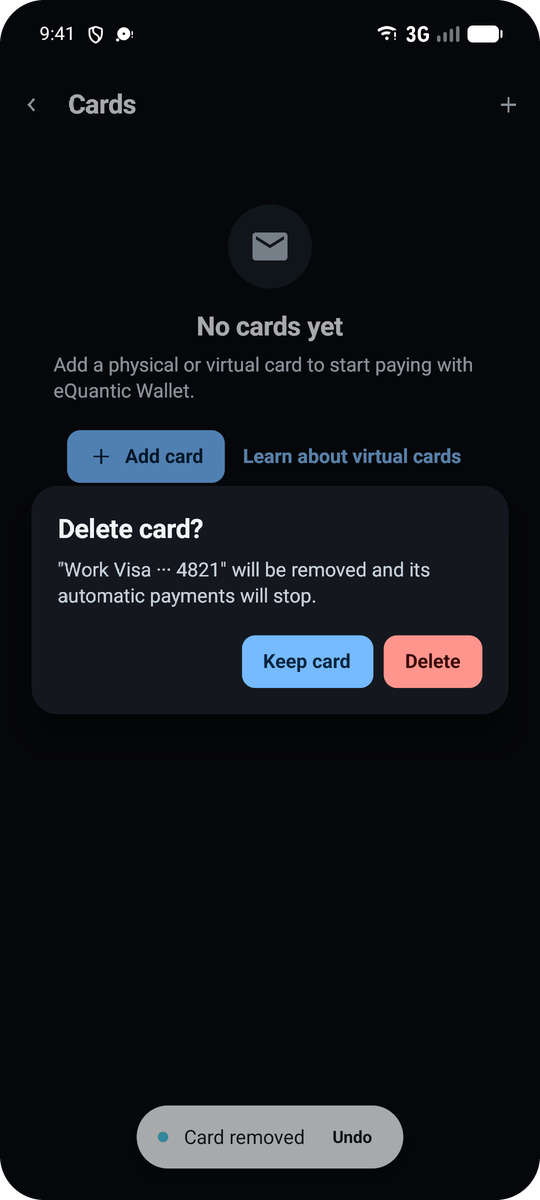
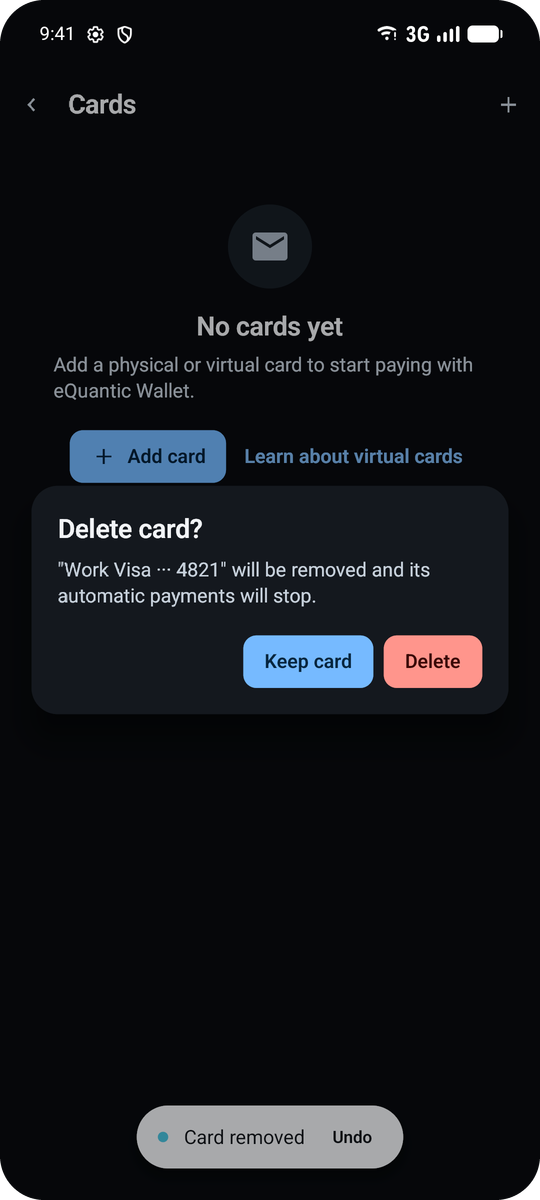
📝 docs: the README's sample pictures taken again, and the change archived into design-system

diff --git a/openspec/specs/design-system/spec.md b/openspec/specs/design-system/spec.md
@@ -88,3 +88,19 @@ it, so a theme that overrides `Code` colours a `CodeBlock` alike on the server, 
 
 - **WHEN** a theme answers its own colour for `CodeTokenKind.Keyword`
 - **THEN** the theme data carries that colour, and the materialized theme answers it for `keyword`
+
+### Requirement: A Photon app's theme is chosen in C# alone
+
+A Photon app SHALL take its theme from `UseTheme(theme)` on its builder, and Photon's own theme when it
+chooses none. The options bound from configuration SHALL reach no theme, so configuration names none
+and the configuration binder walks nothing a theme holds.
+
+#### Scenario: An app chooses a theme
+
+- **WHEN** an app calls `UseTheme` with a Material theme, and its command line names `Photon:Theme`
+- **THEN** the app's theme is the Material theme
+
+#### Scenario: The bound options
+
+- **WHEN** the types the bound options reach are walked as the binder walks them
+- **THEN** none of them is a theme, and none is a `TypeStyle`

diff --git a/openspec/changes/archive/2026-11-11-the-theme-reaches-a-photon-app-through-use-theme-alone/tasks.md b/openspec/changes/archive/2026-11-11-the-theme-reaches-a-photon-app-through-use-theme-alone/tasks.md
@@ -8,7 +8,7 @@
 
 ## 2. The proof
 
-- [ ] 2.1 The native engine suite, and CI's samples job, which builds the desktop and mobile samples on macOS
+- [x] 2.1 The native engine (3386) and web (1408) suites, and the README's pictures of the two samples taken again on the desktop, an iOS simulator and an Android emulator. Verify: the desktop pictures are pixel-identical, the phones' differ by what main changed since they were taken (text weights, the emulator's status bar) and by a line #1442 follows
 
 ## 3. Documentation
 
